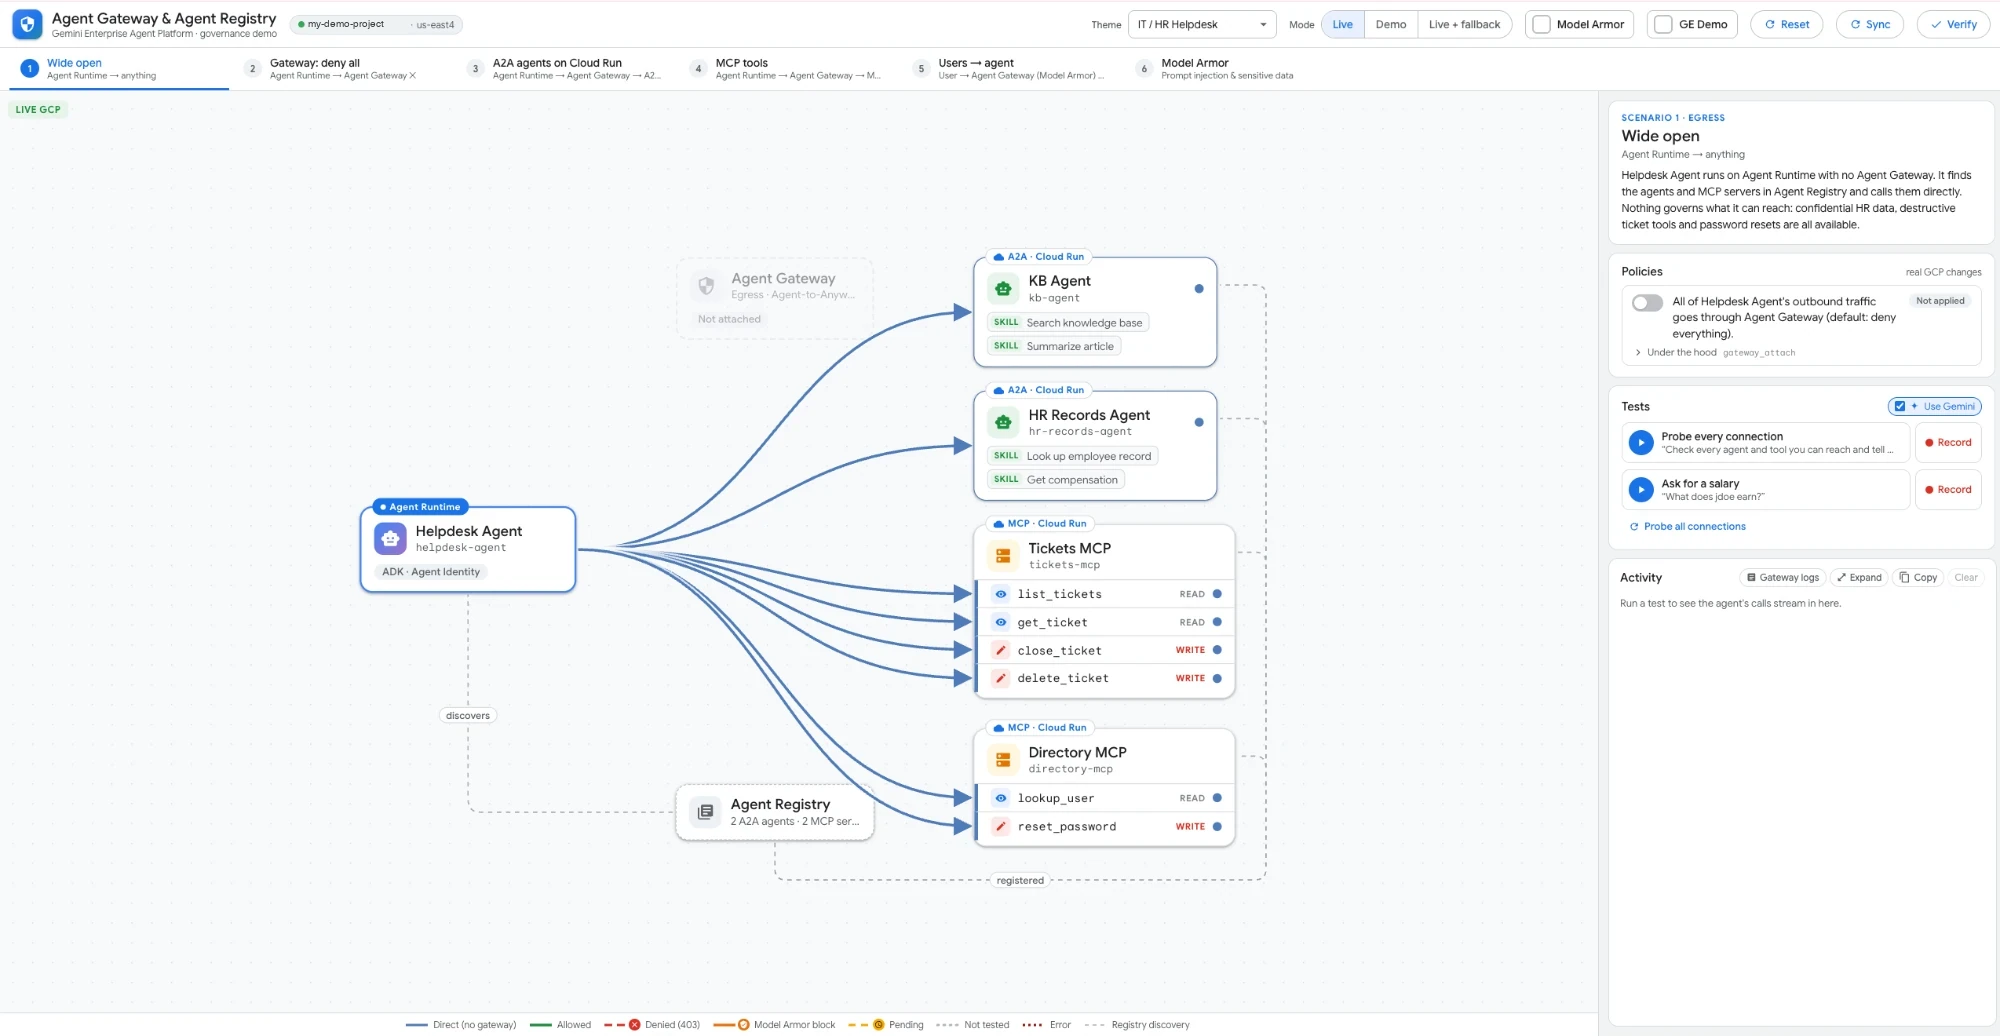
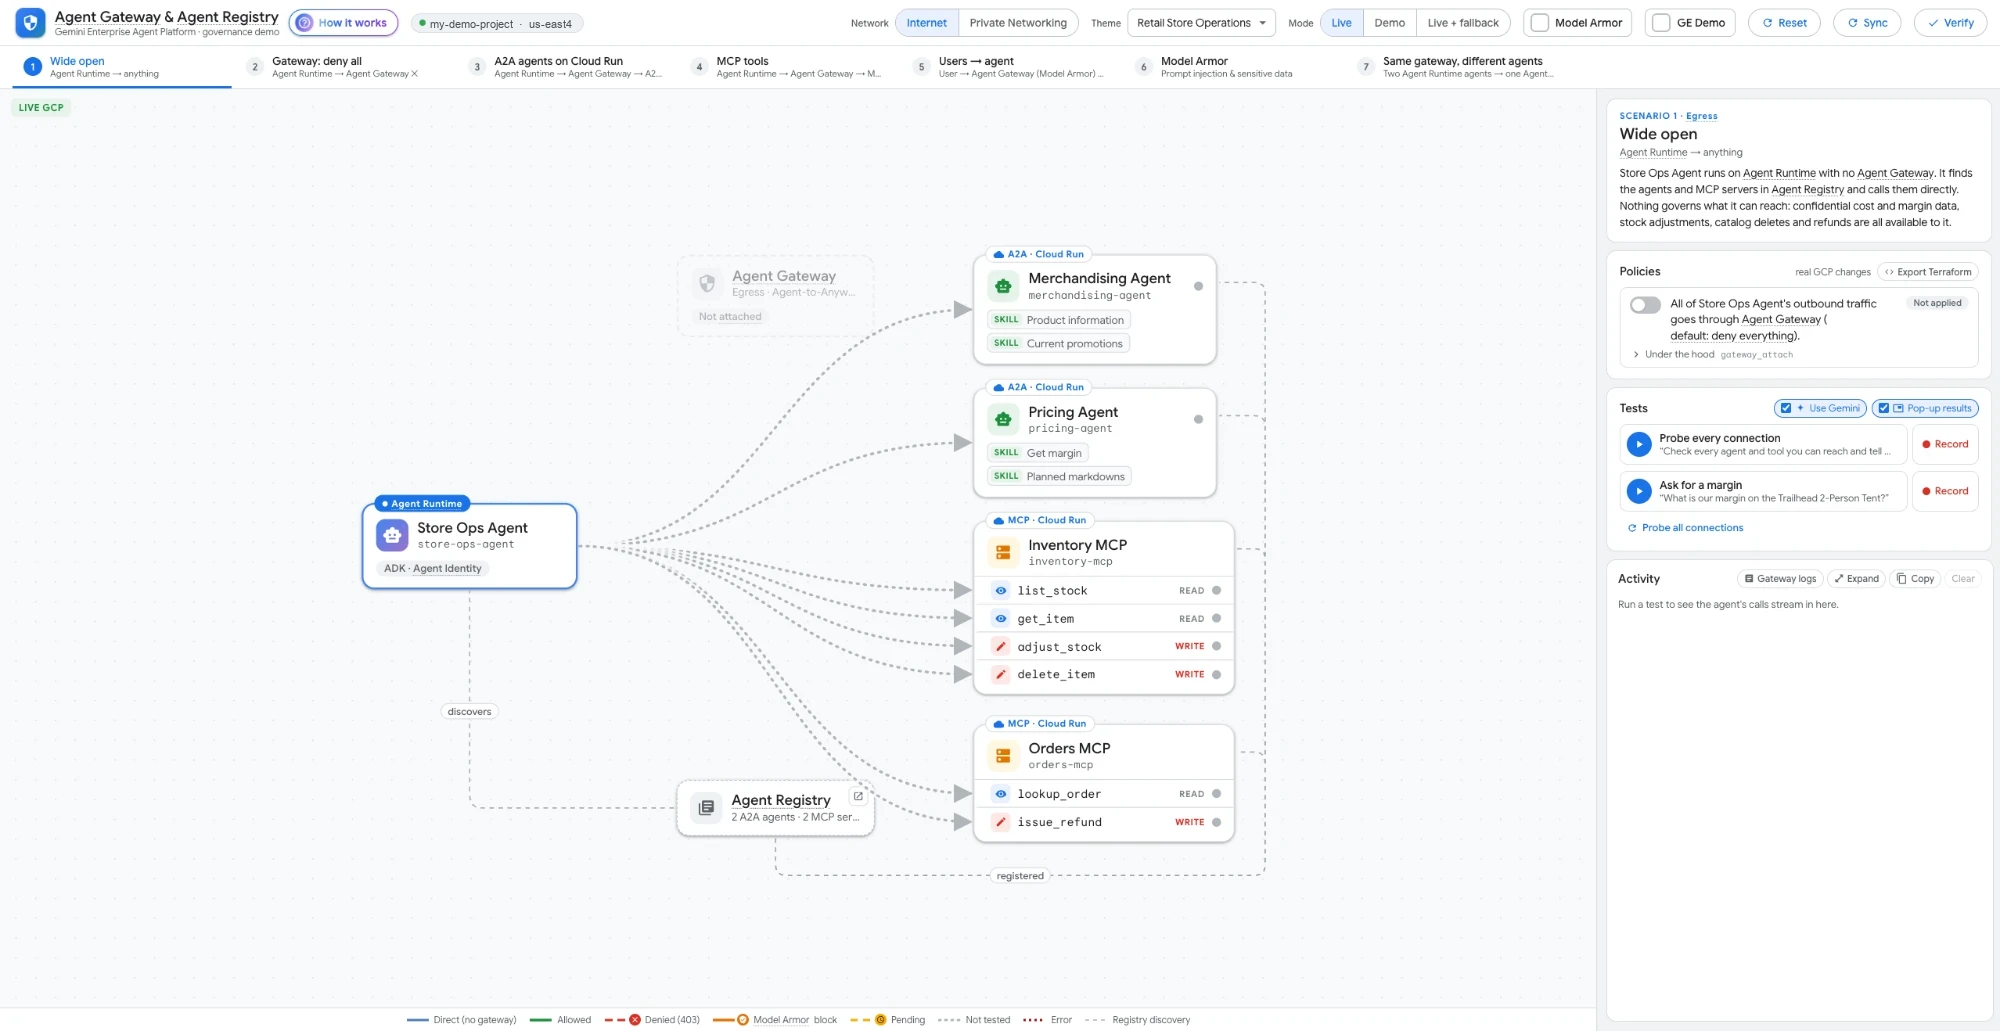
README: updated UI screenshot (Retail theme, Network switch, seven scenarios); project ID replaced with a placeholder

diff --git a/README.md b/README.md
@@ -27,7 +27,7 @@ Use cases are pluggable **themes** (YAML only). Two ship with the repo: *IT / HR
 
 > **All target services are mocks.** The A2A agents and MCP servers return fake data from the theme files. No real tickets, orders, refunds, HR records or prices are read or changed.
 
-![Demo UI: the scenario tabs across the top, the live diagram of Helpdesk Agent and its A2A agents and MCP tools, and the side panel with the talk track, policies, tests and activity log](docs/images/ui-overview.webp)
+![Demo UI (Retail Store Operations theme, Live, Internet network): the Network, Theme and Mode switches and the seven scenario tabs across the top; the live diagram of Store Ops Agent on Agent Runtime with its A2A agents and MCP tools on Cloud Run, the unattached Agent Gateway and Agent Registry; and the side panel with the talk track, policies, tests and activity log](docs/images/ui-overview.webp)
 
 *Scenario 1 (Wide open) in Live mode: Helpdesk Agent on Agent Runtime calls every A2A agent and MCP tool directly; the Agent Gateway is not attached yet.*
 
